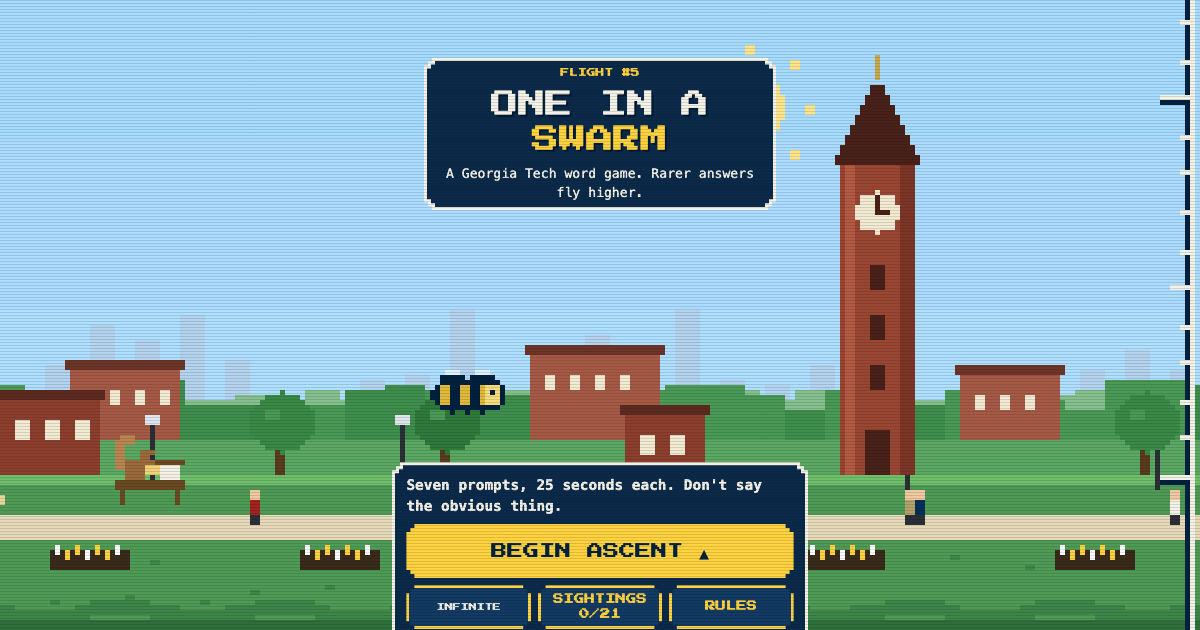
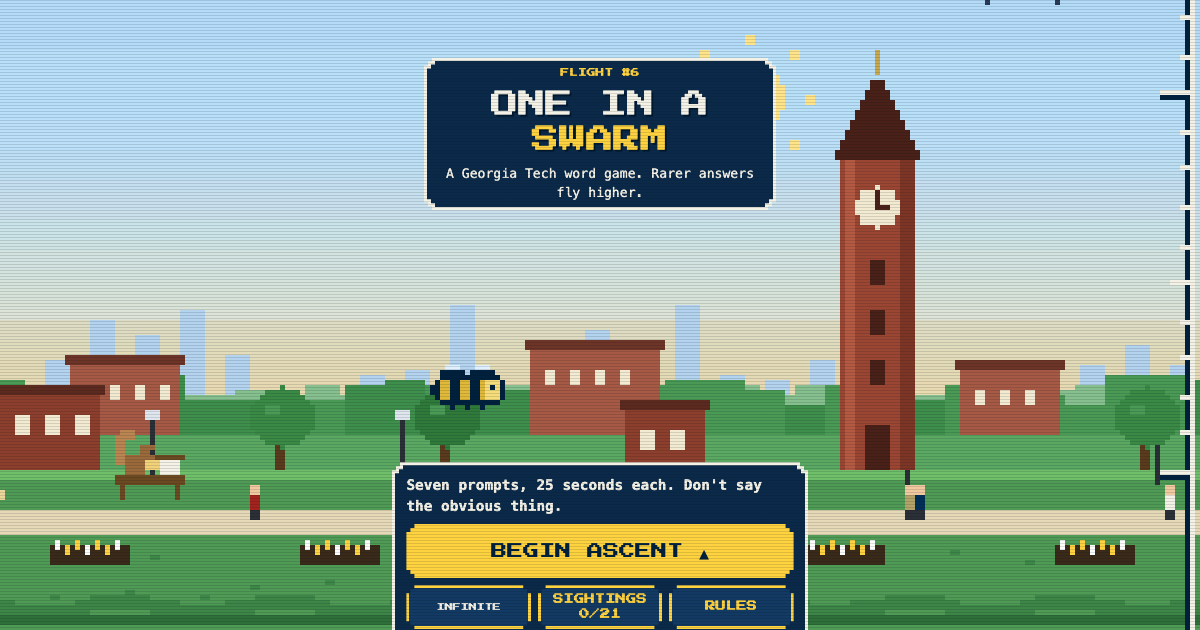
v5 item 7: verify (screenshots in screenshots/v5, review log)
Adds the hidden-mid-climb recovery and an Infinite run to the screenshot script, fixes
the wrapping numbers on the Infinite end screen, and keeps the world layer and the safe
area in step so cached boxes are never a frame out.

diff --git a/tests/e2e/screens.js b/tests/e2e/screens.js
@@ -1,7 +1,7 @@
 #!/usr/bin/env node
 'use strict';
 /* Plays three flights in headless Chrome at phone and desktop size and saves screenshots into
-   screenshots/v4/: one of about 150 points, one of about 350, and a perfect 700, plus every
+   screenshots/v5/: one of about 150 points, one of about 350, and a perfect 700, plus every
    zone, some easter eggs, a secret answer, the One in a Swarm moment and the results screen.
    Tiers are forced by looking answers up by tier in the prompt bank. Run with: npm run screens */
 const http = require('http');
@@ -12,7 +12,7 @@ const C = require('../../js/core.js');
 const data = require('../../data/prompts.json');
 
 const ROOT = path.join(__dirname, '..', '..');
-const OUT = path.join(ROOT, 'screenshots', 'v4');
+const OUT = path.join(ROOT, 'screenshots', 'v5');
 const TYPES = { '.html': 'text/html', '.js': 'text/javascript', '.css': 'text/css', '.json': 'application/json', '.png': 'image/png', '.woff2': 'font/woff2' };
 
 const server = http.createServer((req, res) => {
@@ -43,7 +43,13 @@ function seed(tiers) {
 
 async function run(browser, base, name, width, height, mobile) {
   const fakeClock = `(() => { const R = Date; let off = 0; class D extends R { constructor(...a) { if (a.length) super(...a); else super(R.now() + off); } static now() { return R.now() + off; } } window.Date = D; window.__shiftClock = (ms) => { off += ms; }; })();`;
-  const page = await browser.newPage({ width, height, mobile, initScript: fakeClock });
+  // lets a test hide the page: frames stop and the page is told, as when a tab goes to the background
+  const hideable = `(() => { const raf = window.requestAnimationFrame.bind(window); let hidden = false; let waiting = [];
+    window.requestAnimationFrame = (cb) => { if (hidden) { waiting.push(cb); return 0; } return raf(cb); };
+    Object.defineProperty(document, 'hidden', { configurable: true, get: () => hidden });
+    Object.defineProperty(document, 'visibilityState', { configurable: true, get: () => (hidden ? 'hidden' : 'visible') });
+    window.__setHidden = (v) => { hidden = v; document.dispatchEvent(new Event('visibilitychange')); if (!v) { const w = waiting; waiting = []; w.forEach((cb) => raf(cb)); } }; })();`;
+  const page = await browser.newPage({ width, height, mobile, initScript: fakeClock + hideable });
   const shot = async (label) => {
     const file = path.join(OUT, name + '-' + label + '.png');
     for (let attempt = 1; ; attempt++) {
@@ -173,6 +179,37 @@ async function run(browser, base, name, width, height, mobile) {
   await page.eval('document.querySelector("#resSightGrid").scrollIntoView({ block: "center" })');
   await sleep(300);
   await shot('25-results-sightings-panel');
+  // the page is hidden in the middle of a climb, and comes back
+  await load(seed(['swarm', 'solid']));
+  await next();
+  await play('deep');
+  await phase('climb');
+  await sleep(900);
+  await page.eval('__setHidden(true)');
+  await sleep(2500);
+  await page.eval('__setHidden(false)');
+  await phase('reveal', 3000);
+  await sleep(900);
+  await shot('26-hidden-mid-climb-recovered');
+
+  // infinite mode, until the clock runs out
+  await load(null);
+  await page.eval('document.getElementById("infBtn").click()');
+  await phase('guess');
+  const infAnswer = async (tier) => {
+    const text = await page.eval('document.getElementById("promptText").textContent');
+    const p = data.prompts.find((q) => q.text === text);
+    await submit(p.answers.find((a) => a.tier === tier).name);
+    await sleep(900);
+  };
+  await infAnswer('rare');
+  await infAnswer('swarm');
+  await infAnswer('solid');
+  await shot('27-infinite-mid-run');
+  for (let i = 0; i < 40 && (await page.eval('document.body.dataset.phase')) === 'guess'; i++) await submit('wrong guess ' + i).catch(() => {});
+  await phase('infover', 20000);
+  await sleep(600);
+  await shot('28-infinite-clock-ran-out');
   const problems = page.problems.slice();
   await page.close();
   return problems;

diff --git a/css/style.css b/css/style.css
@@ -321,6 +321,8 @@ section[data-view="results"], section[data-view="infover"] { min-height: 100dvh;
 .numbers, .stats { margin: 0.8rem 0 0; display: grid; grid-template-columns: repeat(auto-fit, minmax(8rem, 1fr)); gap: 0.8rem; }
 .numbers dt, .stats dt { font-size: 0.7rem; font-weight: 700; letter-spacing: 0.08em; text-transform: uppercase; color: var(--muted); }
 .numbers dd, .stats dd { margin: 0.2rem 0 0; }
+/* four numbers never share a row narrower than they are: two columns */
+[data-view="infover"] .numbers { grid-template-columns: repeat(2, minmax(0, 1fr)); }
 .numbers dd { font-size: clamp(0.8rem, 4.2vw, 1.4rem); overflow-wrap: anywhere; }
 .stats { grid-template-columns: repeat(4, 1fr); }
 .stats dd { font-size: 0.85rem; }

diff --git a/tests/e2e/run.js b/tests/e2e/run.js
@@ -695,6 +695,8 @@ async function main() {
     assert.equal(await text(page, 'infScore'), '100 pts');
     assert.equal(await text(page, 'infAlt'), feet(100));
     assert.equal(await text(page, 'infTitle'), 'NEW BEST RUN');
+    // Regression: the four numbers used to wrap ("190" over "pts") on a wide screen.
+    assert.deepEqual(await page.eval('Array.from(document.querySelectorAll("[data-view=infover] .numbers dd")).filter((n) => n.offsetHeight > parseFloat(getComputedStyle(n).lineHeight) * 1.5 || n.scrollWidth > n.clientWidth + 1).map((n) => n.id)'), [], 'each number sits on one line and fits its column');
     await sleep(500);
     assert.equal(await view(page), 'infover', 'stays ended');
     await page.reload();

diff --git a/js/app.js b/js/app.js
@@ -517,6 +517,8 @@
       lastVars = vars;
       root.setProperty('--win-top', winTop + 'px');
       root.setProperty('--win-bottom', Math.max(0, Math.round(h - winBottom)) + 'px');
+      // the world layer is offset by the same number: move both together, never one frame apart
+      $('worldLayer').style.transform = 'translateY(' + (scene.cssY(0) - winTop) + 'px)';
     }
   }
 

diff --git a/REVIEW.md b/REVIEW.md
@@ -263,3 +263,24 @@ Differences from the reference, and what was done:
 - PASS — no console errors, reduced motion works, all tests pass: every scenario ends with a console check; "reduced motion" scenario; npm run test:all.
 
 Open decision for the owner: the round clock now pauses while the page is hidden, as the v4 brief asks. That reverses the v1 rule that switching tabs gains nothing (HUMAN-TODO 4b).
+
+# v5 — last fixes before shipping
+
+No website was visited. One commit per item, each with a regression test.
+
+1. Input leak. The answer box is disabled and emptied whenever no prompt is live (climb, reveal, end screens), every round starts empty with no submit waiting, and a submit only counts in the guess phase. Test: browser scenario "input leak: nothing typed on a reveal reaches the next round".
+2. Sun. One function, `sunAt(score)`, drawn once per frame. It sinks slowly, warms from pale yellow to orange, leaves by the bottom edge a little below 30,000 ft and never returns. Test: unit test "there is exactly one sun".
+3. Climb pacing. `climbMs(points)` = clamp(2.5 s + 12 ms x points, 2.5 s, 4.5 s), a gentler ease-out, and a slow-down where the climb passes a sighting or fact (at most three, well apart). Measured start: 26 ms after submit. Test: unit test "climb pacing".
+4. Lower sky. The gradient deepens at 1,000 / 3,000 / 6,000 / 9,000 / 13,000 / 20,000 ft; golden haze and birds over campus; a cumulus deck at 3,000-6,000 ft drawn half behind and half in front of the bee; distant hills in a hazy horizon. Test: unit test "the lower sky changes".
+5. Layout. One layout manager places facts, captions and toasts against the HUD, prompt, answer bar, reveal text, the button and its line, the tag, the bee, tier labels, the screen edges and each other. The prompt card is measured where it will land, so nothing shows in the HUD during the countdown. Test: browser scenario "floating text", which checks bounding boxes every 50 ms through a whole flight at 375 and 1440 px (about 985 checks each, no collisions).
+6. Quips. `quipFor(tier, score)`: no thin air below 15,000 ft, no space below the edge of space. Test: unit test "quips fit the altitude".
+7. Verify. `npm run screens` writes 56 screenshots to screenshots/v5/ at 375x812 and 1440x900: a perfect 700 with the Moon and the flag (-20 to -25), the One in a Swarm moment (-20), page hidden mid-climb and recovered (-26), and an Infinite run until the clock runs out (-27, -28). Found and fixed from the screenshots: the four numbers on the Infinite end screen wrapped on a wide screen (now two columns, with a check).
+
+## v5 results
+- 110 unit tests pass; content OK.
+- Browser suite: 31 of 32 pass on the test machine. The one failure is "frame rate during a climb on a throttled phone" (30 fps against a floor of 50). The machine was on battery in Low Power Mode, which caps the browser at 30 frames a second; the same test fails the same way on the already-shipped main branch on this machine, and passed at 60 fps earlier the same day on mains power. It is not evidence either way about v5; CI runs it on a normal machine.
+
+## Could not fix, or left
+- A front cloud can drift across the bee while it rests in the cumulus deck. It is drawn at 80% so the bee shows through, but it is briefly dimmed.
+- On a phone the reveal note can still sit over a bright cloud; it is outlined and readable, not boxed.
+- The leak in item 1 could not be reproduced exactly as reported (text auto-submitting unseen). Every route found is closed and tested, but the original trigger was not observed.
